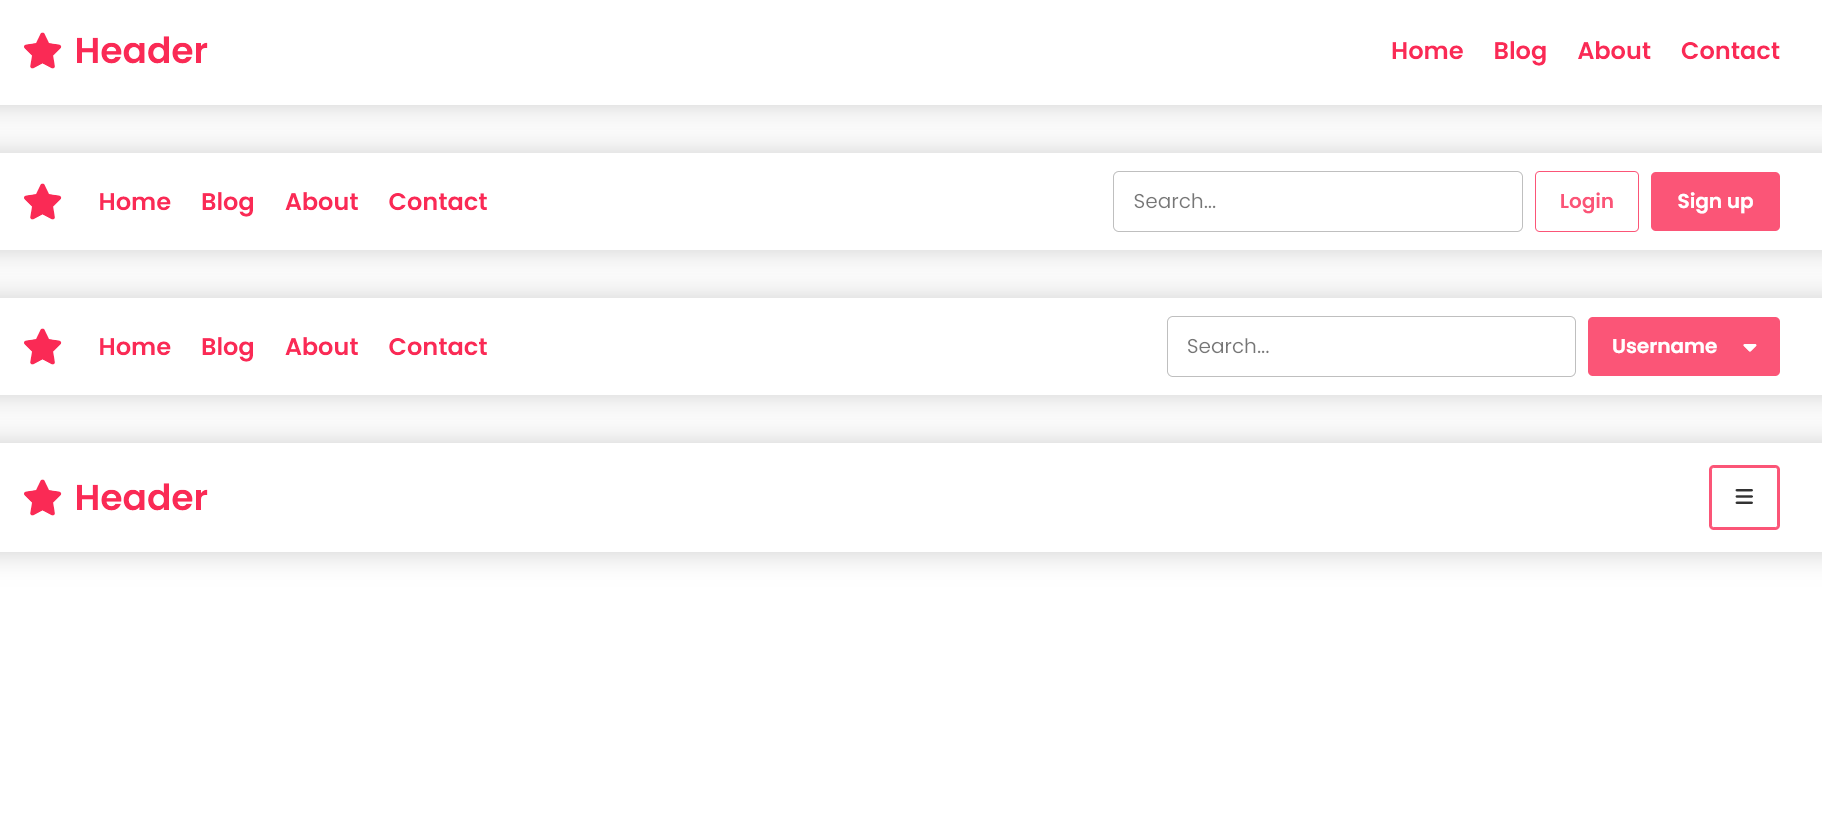
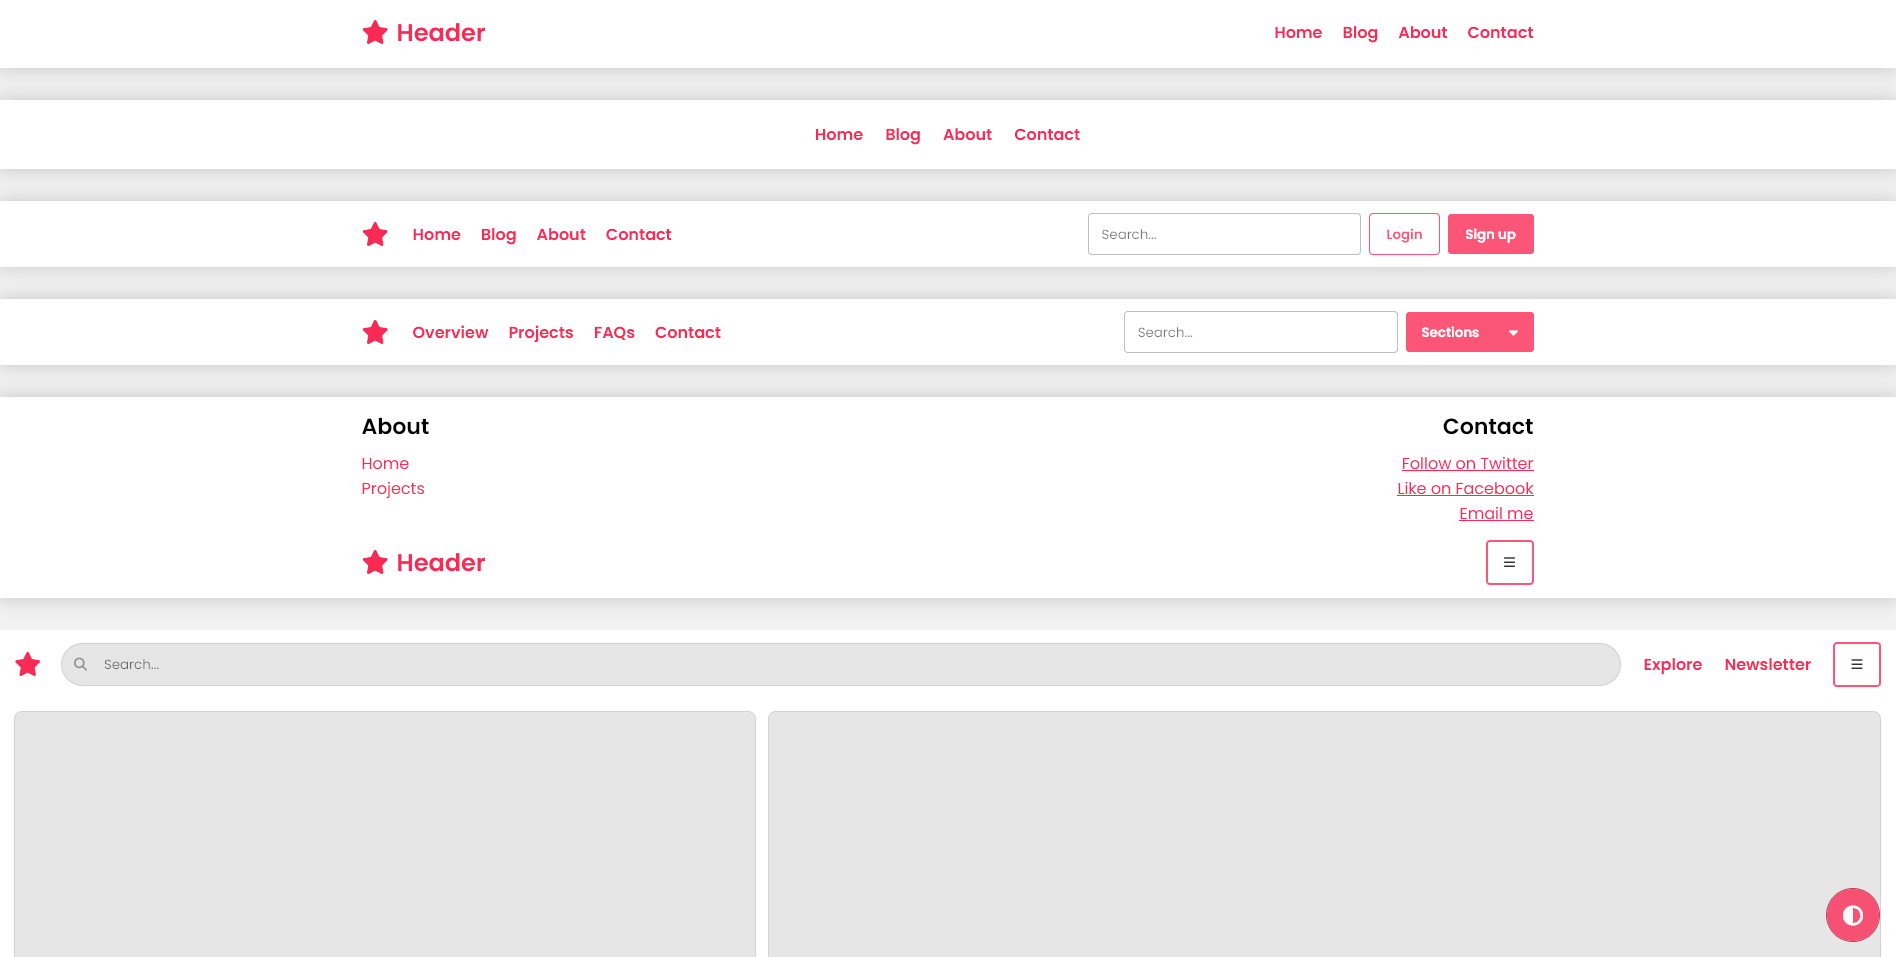
Update

diff --git a/examples/headers.html b/examples/headers.html
@@ -6,8 +6,9 @@
     <title>Headers | PixelbiteCSS</title>
     <link rel="stylesheet" href="https://pixelbite-css.github.io/pixelbite-css/style/1.6/pixelbite-min.css">
 </head>
-<body class="bg-white dark:bg-black10 c-black dark:c-white flex flexWrap-wrap g-32px">
+<body class="bg-white95 dark:bg-black10 c-black dark:c-white flex flexWrap-wrap g-32px">
     
+    <!-- Header sections with title -->
     <div class="w-100% p-12px shadow bg-white dark:bg-black15">
         <div class="auto-width flexMiddle flexSpaceBetween max1000:flexDirection-row min1000:flexDirection-column">
             <a href="#" class="fs-24px fw-600 td-none flexRow g-8px p-6px-0">
@@ -15,7 +16,7 @@
                 Header
             </a>
             <div class="flexRow g-20px">
-                <a href="#" class="td-none fw-600">Home</button>
+                <a href="#" class="td-none fw-600">Home</a>
                 <a href="#" class="td-none fw-600">Blog</a>
                 <a href="#" class="td-none fw-600">About</a>
                 <a href="#" class="td-none fw-600">Contact</a>
@@ -23,15 +24,26 @@
         </div>
     </div>
 
+    <!-- Centered header sections -->
+    <div class="w-100% p-22px shadow bg-white dark:bg-black15">
+        <div class="auto-width flexMiddle flexCenter flexRow g-22px">
+            <a href="#" class="td-none fw-600">Home</a>
+            <a href="#" class="td-none fw-600">Blog</a>
+            <a href="#" class="td-none fw-600">About</a>
+            <a href="#" class="td-none fw-600">Contact</a>
+        </div>
+    </div>
+
+    <!-- Searchbar with sign up buttons header -->
     <div class="w-100% p-12px shadow bg-white dark:bg-black15">
         <div class="auto-width flexMiddle flexSpaceBetween flexRow g-24px max1000:flexDirection-row min1000:flexDirection-column">
             <div class="flexRow g-20px ta-center">
-                <a href="#" class="fs-24px fw-600 td-none flexRow g-8px p-6px-0 w-2">
+                <a href="#" class="fs-24px fw-600 td-none flexRow g-8px p-6px-0">
                     <i class="fa-solid fa-star"></i>
                 </a>
             </div>
             <div class="flexRow w-100% g-20px ta-center max1000:flexJustifyContent-flex_start min1000:flexJustifyContent-center">
-                <a href="#" class="td-none fw-600">Home</button>
+                <a href="#" class="td-none fw-600">Home</a>
                 <a href="#" class="td-none fw-600">Blog</a>
                 <a href="#" class="td-none fw-600">About</a>
                 <a href="#" class="td-none fw-600">Contact</a>
@@ -39,49 +51,51 @@
             <div class="flexRow g-8px ta-center">
                 <input type="search" placeholder="Search..." class="bg-white c-black dark:bg-black15 dark:c-white">
                 <button class="b-1px-solid-primary c-primary bg-rgba(0,0,0,0)">Login</button>
-                <button class="w-86px">Sign up</button>
+                <button class="minW-86px">Sign up</button>
             </div>
         </div>
     </div>
 
+    <!-- Searchbar with dropdown menu header -->
     <div class="w-100% p-12px shadow bg-white dark:bg-black15">
         <div class="auto-width flexMiddle flexSpaceBetween flexRow g-24px max1000:flexDirection-row min1000:flexDirection-column">
             <div class="flexRow g-20px ta-center">
-                <a href="#" class="fs-24px fw-600 td-none flexRow g-8px p-6px-0 w-2">
+                <a href="#" class="fs-24px fw-600 td-none flexRow g-8px p-6px-0">
                     <i class="fa-solid fa-star"></i>
                 </a>
             </div>
             <div class="flexRow w-100% g-20px ta-center max1000:flexJustifyContent-flex_start min1000:flexJustifyContent-center">
-                <a href="#" class="td-none fw-600">Home</button>
-                <a href="#" class="td-none fw-600">Blog</a>
-                <a href="#" class="td-none fw-600">About</a>
+                <a href="#" class="td-none fw-600">Overview</a>
+                <a href="#" class="td-none fw-600">Projects</a>
+                <a href="#" class="td-none fw-600">FAQs</a>
                 <a href="#" class="td-none fw-600">Contact</a>
             </div>
             <div class="flexRow g-8px">
                 <input type="search" placeholder="Search..." class="bg-white c-black dark:bg-black15 dark:c-white">
                 <div class="dropdown zIndex-50">
                     <select>
-                        <option value="1">Username</option>
-                        <option value="1">Settings</option>
-                        <option value="1">Sign out</option>
+                        <option value="1">Sections</option>
+                        <option value="1">Topics</option>
+                        <option value="1">Authors</option>
                     </select>
                 </div>
             </div>
         </div>
     </div>
 
+    <!-- Header with pop up menu -->
     <div class="w-100% p-12px shadow bg-white dark:bg-black15">
         <div class="header2 hidden auto-width pb-12px flexRow flexLeft">
             <div class="w-100% flex flexColumn flexLeft flexTop">
                 <h4 class="fw-600">About</h4>
-                <a href="#" class="c-white80 td-none">Home</a>
-                <a href="#" class="c-white80 td-none">Projects</a>
+                <a href="#" class="td-none">Home</a>
+                <a href="#" class="td-none">Projects</a>
             </div>
             <div class="w-100% flex flexColumn flexRight flexTop">
                 <h4 class="fw-600">Contact</h4>
-                <a href="#" class="c-white">Follow on Twitter</a>
-                <a href="#" class="c-white">Like on Facebook</a>
-                <a href="#" class="c-white">Email me</a>
+                <a href="#">Follow on Twitter</a>
+                <a href="#">Like on Facebook</a>
+                <a href="#">Email me</a>
             </div>
         </div>
         <div class="auto-width flexMiddle flexSpaceBetween flexRow">
@@ -95,7 +109,35 @@
         </div>
     </div>
 
-
+    <!-- Searchbar with features header -->
+    <div class="w-100%" class="bg-white dark:bg-black15 shadow">
+        <div class="w-100% p-12px-18px bg-white dark:bg-black15">
+            <div class="w-100% flexMiddle flexSpaceBetween flexRow g-22px max1000:flexDirection-row min1000:flexDirection-column">
+                <div class="flexRow g-20px flexCenter flexMiddle w-100%">
+                    <a href="#" class="fs-24px fw-600 td-none">
+                        <i class="fa-solid fa-star"></i>
+                    </a>
+                    <div class="b-1px-solid-rgba(128,128,128,.2) bg-rgba(128,128,128,.2) br-500px of-hidden flexRow pos-relative w-100%">
+                        <input type="search" placeholder="Search..." class="bg-rgba(0,0,0,0) b-none pl-42px c-black dark:c-white w-100%">
+                        <button class="bg-rgba(0,0,0,0) c-gray pos-absolute top-auto left-0px p-12px">
+                            <i class="fa-solid fa-magnifying-glass"></i>
+                        </button>
+                    </div>
+                </div>
+                <div class="aflexMiddle flexCenter flexRow g-22px">
+                    <a href="#" class="td-none fw-600">Explore</a>
+                    <a href="#" class="td-none fw-600">Newsletter</a>
+                    <button class="bg-rgba(0,0,0,0) b-2px-solid-primary c-black dark:c-white">
+                        <i class="fa-solid fa-bars"></i>
+                    </button>
+                </div>
+            </div>
+        </div>
+        <div class="w-100% p-12px-18px bg-white dark:bg-black15 flexRow g-12px">
+            <div class="w-40% h-300px b-1px-solid-rgba(128,128,128,.2) bg-rgba(128,128,128,.2) br-8px"></div>
+            <div class="w-60% h-300px b-1px-solid-rgba(128,128,128,.2) bg-rgba(128,128,128,.2) br-8px"></div>
+        </div>
+    </div>
 
     <button onclick="changeTheme()" class="br-5000px ar-1/1 flex flexCenter flexMiddle fs-20px fixed top-auto left-auto bottom-20px right-20px"><i class="fa-solid fa-circle-half-stroke"></i></button>
 <script src="https://pixelbite-css.github.io/pixelbite-css/script/1.6/pixelbite-min.js"></script> 

diff --git a/examples/index.html b/examples/index.html
@@ -30,6 +30,26 @@
             <!-- <component path="./components/snippets_block.html" link="#" link-edit="#" title="#" description="#" img="#"></component> -->
         </div>
     </div>
+    <div class="auto-width p-32px-12px">
+        <div class="pb-12px">
+            <h3 class="fw-500">Components</h3>
+            <div class="o-.9">New PixelbiteCSS components and templates for a quick start and best practices demonstration.</div>
+        </div>
+        <div class="flexLeft flexTop flexRow flexWrap-wrap g-12px">
+            <component path="./components/snippets_block.html" link="./headers.html" link-edit="#" title="Headers" description="Header components for navigation, branding, search, and more." img="./assets/headers.png"></component>
+            <!-- <component path="./components/snippets_block.html" link="#" link-edit="#" title="#" description="#" img="#"></component> -->
+        </div>
+    </div>
+    <div class="auto-width p-32px-12px">
+        <div class="pb-12px">
+            <h3 class="fw-500">Framework</h3>
+            <div class="o-.9">Illustrations emphasizing the utilization of PixelbiteCSS's built-in components.</div>
+        </div>
+        <div class="flexLeft flexTop flexRow flexWrap-wrap g-12px">
+            <component path="./components/snippets_block.html" link="./headers.html" link-edit="#" title="Headers" description="Header components for navigation, branding, search, and more." img="./assets/headers.png"></component>
+            <!-- <component path="./components/snippets_block.html" link="#" link-edit="#" title="#" description="#" img="#"></component> -->
+        </div>
+    </div>
     <div class="auto-width p-12px">
         <div class="bg-cherry60 c-white dark:bg-cherry40 p-48px-64px br-8px shadow-0-10px-20px-rgba(0,0,0,.3)
             flex flexDirection-row flexJustifyContent-space_between min1000:flexDirection-column g-24px of-hidden pos-relative
